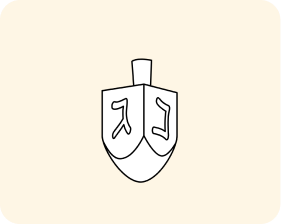
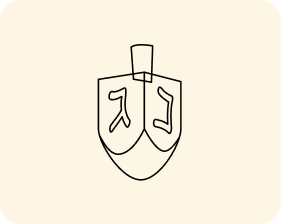
linking done

Changed region(s): [[0.3416, 0.1875, 0.6548, 0.8438]]

diff --git a/src/components/Businessresults/Businessresults.jsx b/src/components/Businessresults/Businessresults.jsx
@@ -1,4 +1,5 @@
 import { useState } from "react";
+import { useNavigate } from "react-router-dom";
 
 const businesses = [
   {
@@ -6,36 +7,52 @@ const businesses = [
     name: "Home Gift",
     category: "Gift Shops",
     location: "Lakewood, N J",
-    image: "https://images.unsplash.com/photo-1549465220-1a8b9238cd48?w=400&q=80",
+    image:
+      "https://images.unsplash.com/photo-1549465220-1a8b9238cd48?w=400&q=80",
   },
   {
     id: 2,
     name: "Home Gift",
     category: "Gift Shops",
     location: "Lakewood, N J",
-    image: "https://images.unsplash.com/photo-1513885535751-8b9238bd345a?w=400&q=80",
+    image:
+      "https://images.unsplash.com/photo-1513885535751-8b9238bd345a?w=400&q=80",
   },
   {
     id: 3,
     name: "Home Gift",
     category: "Gift Shops",
     location: "Lakewood, N J",
-    image: "https://images.unsplash.com/photo-1555041469-a586c61ea9bc?w=400&q=80",
+    image:
+      "https://images.unsplash.com/photo-1555041469-a586c61ea9bc?w=400&q=80",
   },
 ];
 
 function LocationIcon() {
   return (
-    <svg xmlns="http://www.w3.org/2000/svg" width="12" height="12" viewBox="0 0 24 24" fill="none" stroke="#6b7280" strokeWidth="2" strokeLinecap="round" strokeLinejoin="round">
-      <path d="M21 10c0 7-9 13-9 13s-9-6-9-13a9 9 0 0 1 18 0z"/>
-      <circle cx="12" cy="10" r="3"/>
+    <svg
+      xmlns="http://www.w3.org/2000/svg"
+      width="12"
+      height="12"
+      viewBox="0 0 24 24"
+      fill="none"
+      stroke="#6b7280"
+      strokeWidth="2"
+      strokeLinecap="round"
+      strokeLinejoin="round"
+    >
+      <path d="M21 10c0 7-9 13-9 13s-9-6-9-13a9 9 0 0 1 18 0z" />
+      <circle cx="12" cy="10" r="3" />
     </svg>
   );
 }
 
-function BusinessCard({ name, category, location, image }) {
+function BusinessCard({ name, category, location, image, onClick }) {
   return (
-    <div className="bg-white p-4 rounded-2xl overflow-hidden border border-gray-100 shadow-sm hover:shadow-md transition-shadow cursor-pointer group">
+    <div
+      className="bg-white p-4 rounded-2xl overflow-hidden border border-gray-100 shadow-sm hover:shadow-md transition-shadow cursor-pointer group"
+      onClick={onClick}
+    >
       {/* Image */}
       <div className="h-44 overflow-hidden">
         <img
@@ -47,7 +64,9 @@ function BusinessCard({ name, category, location, image }) {
       </div>
       {/* Info */}
       <div className="py-3.5">
-        <p className="text-sm lg:text-base font-bold text-gray-900 mb-1">{name}</p>
+        <p className="text-sm lg:text-base font-bold text-gray-900 mb-1">
+          {name}
+        </p>
         <p className="text-xs lg:text-base text-gray-400 mb-2">{category}</p>
         <div className="flex items-center gap-1">
           <LocationIcon />
@@ -59,7 +78,14 @@ function BusinessCard({ name, category, location, image }) {
 }
 
 export default function BusinessResults({ categoryName }) {
+  const navigate = useNavigate();
   const groupLabel = categoryName || "Home Gift";
+
+  const openBusinessDetails = (business) => {
+    navigate("/category-details", {
+      state: { business },
+    });
+  };
 
   return (
     <div className="py-2">
@@ -69,12 +95,18 @@ export default function BusinessResults({ categoryName }) {
       </h1>
 
       {/* Category label */}
-      <p className="text-sm lg:text-lg font-semibold text-gray-700 mb-4">{groupLabel}</p>
+      <p className="text-sm lg:text-lg font-semibold text-gray-700 mb-4">
+        {groupLabel}
+      </p>
 
       {/* Responsive grid */}
       <div className="grid grid-cols-1 md:grid-cols-2 lg:grid-cols-3 xl:grid-cols-4 gap-4">
         {businesses.map((b) => (
-          <BusinessCard key={b.id} {...b} />
+          <BusinessCard
+            key={b.id}
+            {...b}
+            onClick={() => openBusinessDetails(b)}
+          />
         ))}
       </div>
     </div>

diff --git a/src/components/AllCategories/AllCategories.jsx b/src/components/AllCategories/AllCategories.jsx
@@ -1,7 +1,7 @@
-import { useState } from "react";
+import { useState, useEffect } from "react";
 import BusinessResults from "../Businessresults/Businessresults";
 import SidebarFilter from "../SidebarFilter/SidebarFilter";
-import { Link, useNavigate } from "react-router-dom";
+import { Link, useNavigate, useLocation } from "react-router-dom";
 import { IMAGES } from "../../assets";
 
 // ── Data ──
@@ -200,20 +200,13 @@ function ArrowLeftIcon() {
 // ── Grid Card ──────────────────────────────────────
 function GridCard({ name, count, image, onClick }) {
   const [hovered, setHovered] = useState(false);
-  const navigate = useNavigate();
-
-  const handleClick = () => {
-    navigate("/category-details", {
-      state: { category: { name, count, image } },
-    });
-  };
 
   return (
     <div
       className={`cursor-pointer group bg-white p-4 relative overflow-hidden border border-gray-100/50 transition-all duration-300 hover:shadow-none reveal reveal-slide-up`}
       onMouseEnter={() => setHovered(true)}
       onMouseLeave={() => setHovered(false)}
-      onClick={handleClick}
+      onClick={onClick}
     >
       {/* Left border line drawing */}
       <div
@@ -234,10 +227,7 @@ function GridCard({ name, count, image, onClick }) {
       />
 
       {/* Image */}
-      <div
-        className="rounded-2xl overflow-hidden mb-3 relative"
-        style={{  }}
-      >
+      <div className="rounded-2xl overflow-hidden mb-3 relative">
         <img
           src={image}
           alt={name}
@@ -259,11 +249,20 @@ function GridCard({ name, count, image, onClick }) {
 
 // ── Main Component ──
 export default function BusinessSearch() {
+  const location = useLocation();
   const [selectedCategory, setSelectedCategory] = useState(null);
   const [selCats, setSelCats] = useState(["Custom Baked Goods"]);
   const [selLocs, setSelLocs] = useState(["Brooklyn, NY"]);
   const [selLevels, setSelLevels] = useState(["Cholov Yisroel"]);
   const [page, setPage] = useState(2);
+
+  useEffect(() => {
+    const params = new URLSearchParams(location.search);
+    const categoryFromUrl = params.get("category");
+    if (categoryFromUrl) {
+      setSelectedCategory(categoryFromUrl);
+    }
+  }, [location.search]);
 
   function toggle(arr, setArr, val) {
     setArr((p) => (p.includes(val) ? p.filter((x) => x !== val) : [...p, val]));

diff --git a/src/components/Browsebycommunity/Browsebycommunity.jsx b/src/components/Browsebycommunity/Browsebycommunity.jsx
@@ -13,7 +13,7 @@ const communities = [
     businesses: 342,
     featured: 12,
     image:
-      "https://images.unsplash.com/photo-1496442226666-8d4d0e62e6e9?w=600&q=80",
+      IMAGES.browse1,
   },
   {
     id: 2,
@@ -23,7 +23,7 @@ const communities = [
     businesses: 178,
     featured: 8,
     image:
-      "https://images.unsplash.com/photo-1534430480872-3498386e7856?w=600&q=80",
+      IMAGES.browse2,
   },
   {
     id: 3,
@@ -33,7 +33,7 @@ const communities = [
     businesses: 178,
     featured: 8,
     image:
-      "https://images.unsplash.com/photo-1518391846015-55a9cc003b25?w=600&q=80",
+      IMAGES.browse3,
   },
   {
     id: 4,
@@ -43,7 +43,7 @@ const communities = [
     businesses: 250,
     featured: 8,
     image:
-      IMAGES.browse1,
+      IMAGES.browse4,
   },
   {
     id: 5,
@@ -53,7 +53,7 @@ const communities = [
     businesses: 250,
     featured: 8,
     image:
-      "https://images.unsplash.com/photo-1507525428034-b723cf961d3e?w=600&q=80",
+      IMAGES.browse5,
   },
   {
     id: 6,
@@ -63,7 +63,7 @@ const communities = [
     businesses: 250,
     featured: 8,
     image:
-      "https://images.unsplash.com/photo-1506905925346-21bda4d32df4?w=600&q=80",
+      IMAGES.browse6,
   },
   {
     id: 7,
@@ -73,7 +73,7 @@ const communities = [
     businesses: 250,
     featured: 8,
     image:
-      "https://images.unsplash.com/photo-1504307651254-35680f356dfd?w=600&q=80",
+      IMAGES.browse7,
   },
   {
     id: 8,
@@ -83,7 +83,7 @@ const communities = [
     businesses: 250,
     featured: 8,
     image:
-      "https://images.unsplash.com/photo-1533106497176-45ae19e68ba2?w=600&q=80",
+      IMAGES.browse8,
   },
   {
     id: 9,
@@ -93,7 +93,7 @@ const communities = [
     businesses: 250,
     featured: 8,
     image:
-      "https://images.unsplash.com/photo-1469854523086-cc02fe5d8800?w=600&q=80",
+      IMAGES.browse9,
   },
 ];
 
@@ -126,7 +126,7 @@ function CommunityCard({ city, state, rating, businesses, featured, image }) {
       />
 
       {/* Dark overlay — gradient from bottom */}
-      <div className="absolute inset-0 bg-gradient-to-t from-black/75 via-black/30 to-black/10" />
+      <div className="absolute inset-0 bg-[#040404]/40" />
 
       {/* Rating badge — top right */}
       <div className="absolute top-6 right-6 flex items-center gap-1 bg-white/20 backdrop-blur-sm text-white text-sm font-semibold px-2 py-1 rounded-full border border-white/30">

diff --git a/src/assets/index.js b/src/assets/index.js
@@ -28,6 +28,14 @@ import eventVenue5 from "../assets/images/event5.png?w=500&q=80";
 import eventVenue6 from "../assets/images/event6.png?w=500&q=80";
 
 import browse1 from "../assets/images/browse1.png?w=600&q=80";
+import browse2 from "../assets/images/browse2.png?w=600&q=80";
+import browse3 from "../assets/images/browse3.png?w=600&q=80";
+import browse4 from "../assets/images/browse4.png?w=600&q=80";
+import browse5 from "../assets/images/browse5.png?w=600&q=80";
+import browse6 from "../assets/images/browse6.png?w=600&q=80";
+import browse7 from "../assets/images/browse7.png?w=600&q=80";
+import browse8 from "../assets/images/browse8.png?w=600&q=80";
+import browse9 from "../assets/images/browse9.png?w=600&q=80";
 
 
 export const IMAGES = {
@@ -60,5 +68,13 @@ export const IMAGES = {
   eventVenue5,
   eventVenue6,
   browse1,
+  browse2,
+  browse3,
+  browse4,
+  browse5,
+  browse6,
+  browse7,
+  browse8,
+  browse9
 };
 export const ICONS = {};

diff --git a/src/components/Browsecategories/Browsecategories.jsx b/src/components/Browsecategories/Browsecategories.jsx
@@ -59,9 +59,7 @@ function CategoryCard({ name, count, image, delayClass }) {
   const navigate = useNavigate();
 
   const handleClick = () => {
-    navigate("/category-details", {
-      state: { category: { name, count, image } },
-    });
+    navigate(`/all-categories?category=${encodeURIComponent(name)}`);
   };
 
   return (
@@ -90,9 +88,7 @@ function CategoryCard({ name, count, image, delayClass }) {
       />
 
       {/* Image */}
-      <div
-        className="rounded-2xl overflow-hidden mb-3 relative"
-      >
+      <div className="rounded-2xl overflow-hidden mb-3 relative">
         <img
           src={image}
           alt={name}

diff --git a/src/Detailpage/Detailpage.jsx b/src/Detailpage/Detailpage.jsx
@@ -1,4 +1,5 @@
 import { useState, useRef } from "react";
+import { useLocation } from "react-router-dom";
 import {
   FiPhone,
   FiMail,
@@ -276,6 +277,8 @@ function InquiryForm({ fields = [] }) {
 //  MAIN COMPONENT
 // ══════════════════════════════════════════════════
 export default function DetailPage({ data = SAMPLE_BUSINESS, onBack }) {
+  const location = useLocation();
+  const stateBusiness = location.state?.business;
   const d = data;
   const days = [
     "Sunday",
@@ -540,7 +543,7 @@ export default function DetailPage({ data = SAMPLE_BUSINESS, onBack }) {
               <h3 className="text-base sm:text-lg font-bold text-gray-900 mb-1 font-inter">
                 Contact Information
               </h3>
-              
+
               <div className="flex flex-col gap-3">
                 {/* Phone */}
                 {d.contact.phone && (